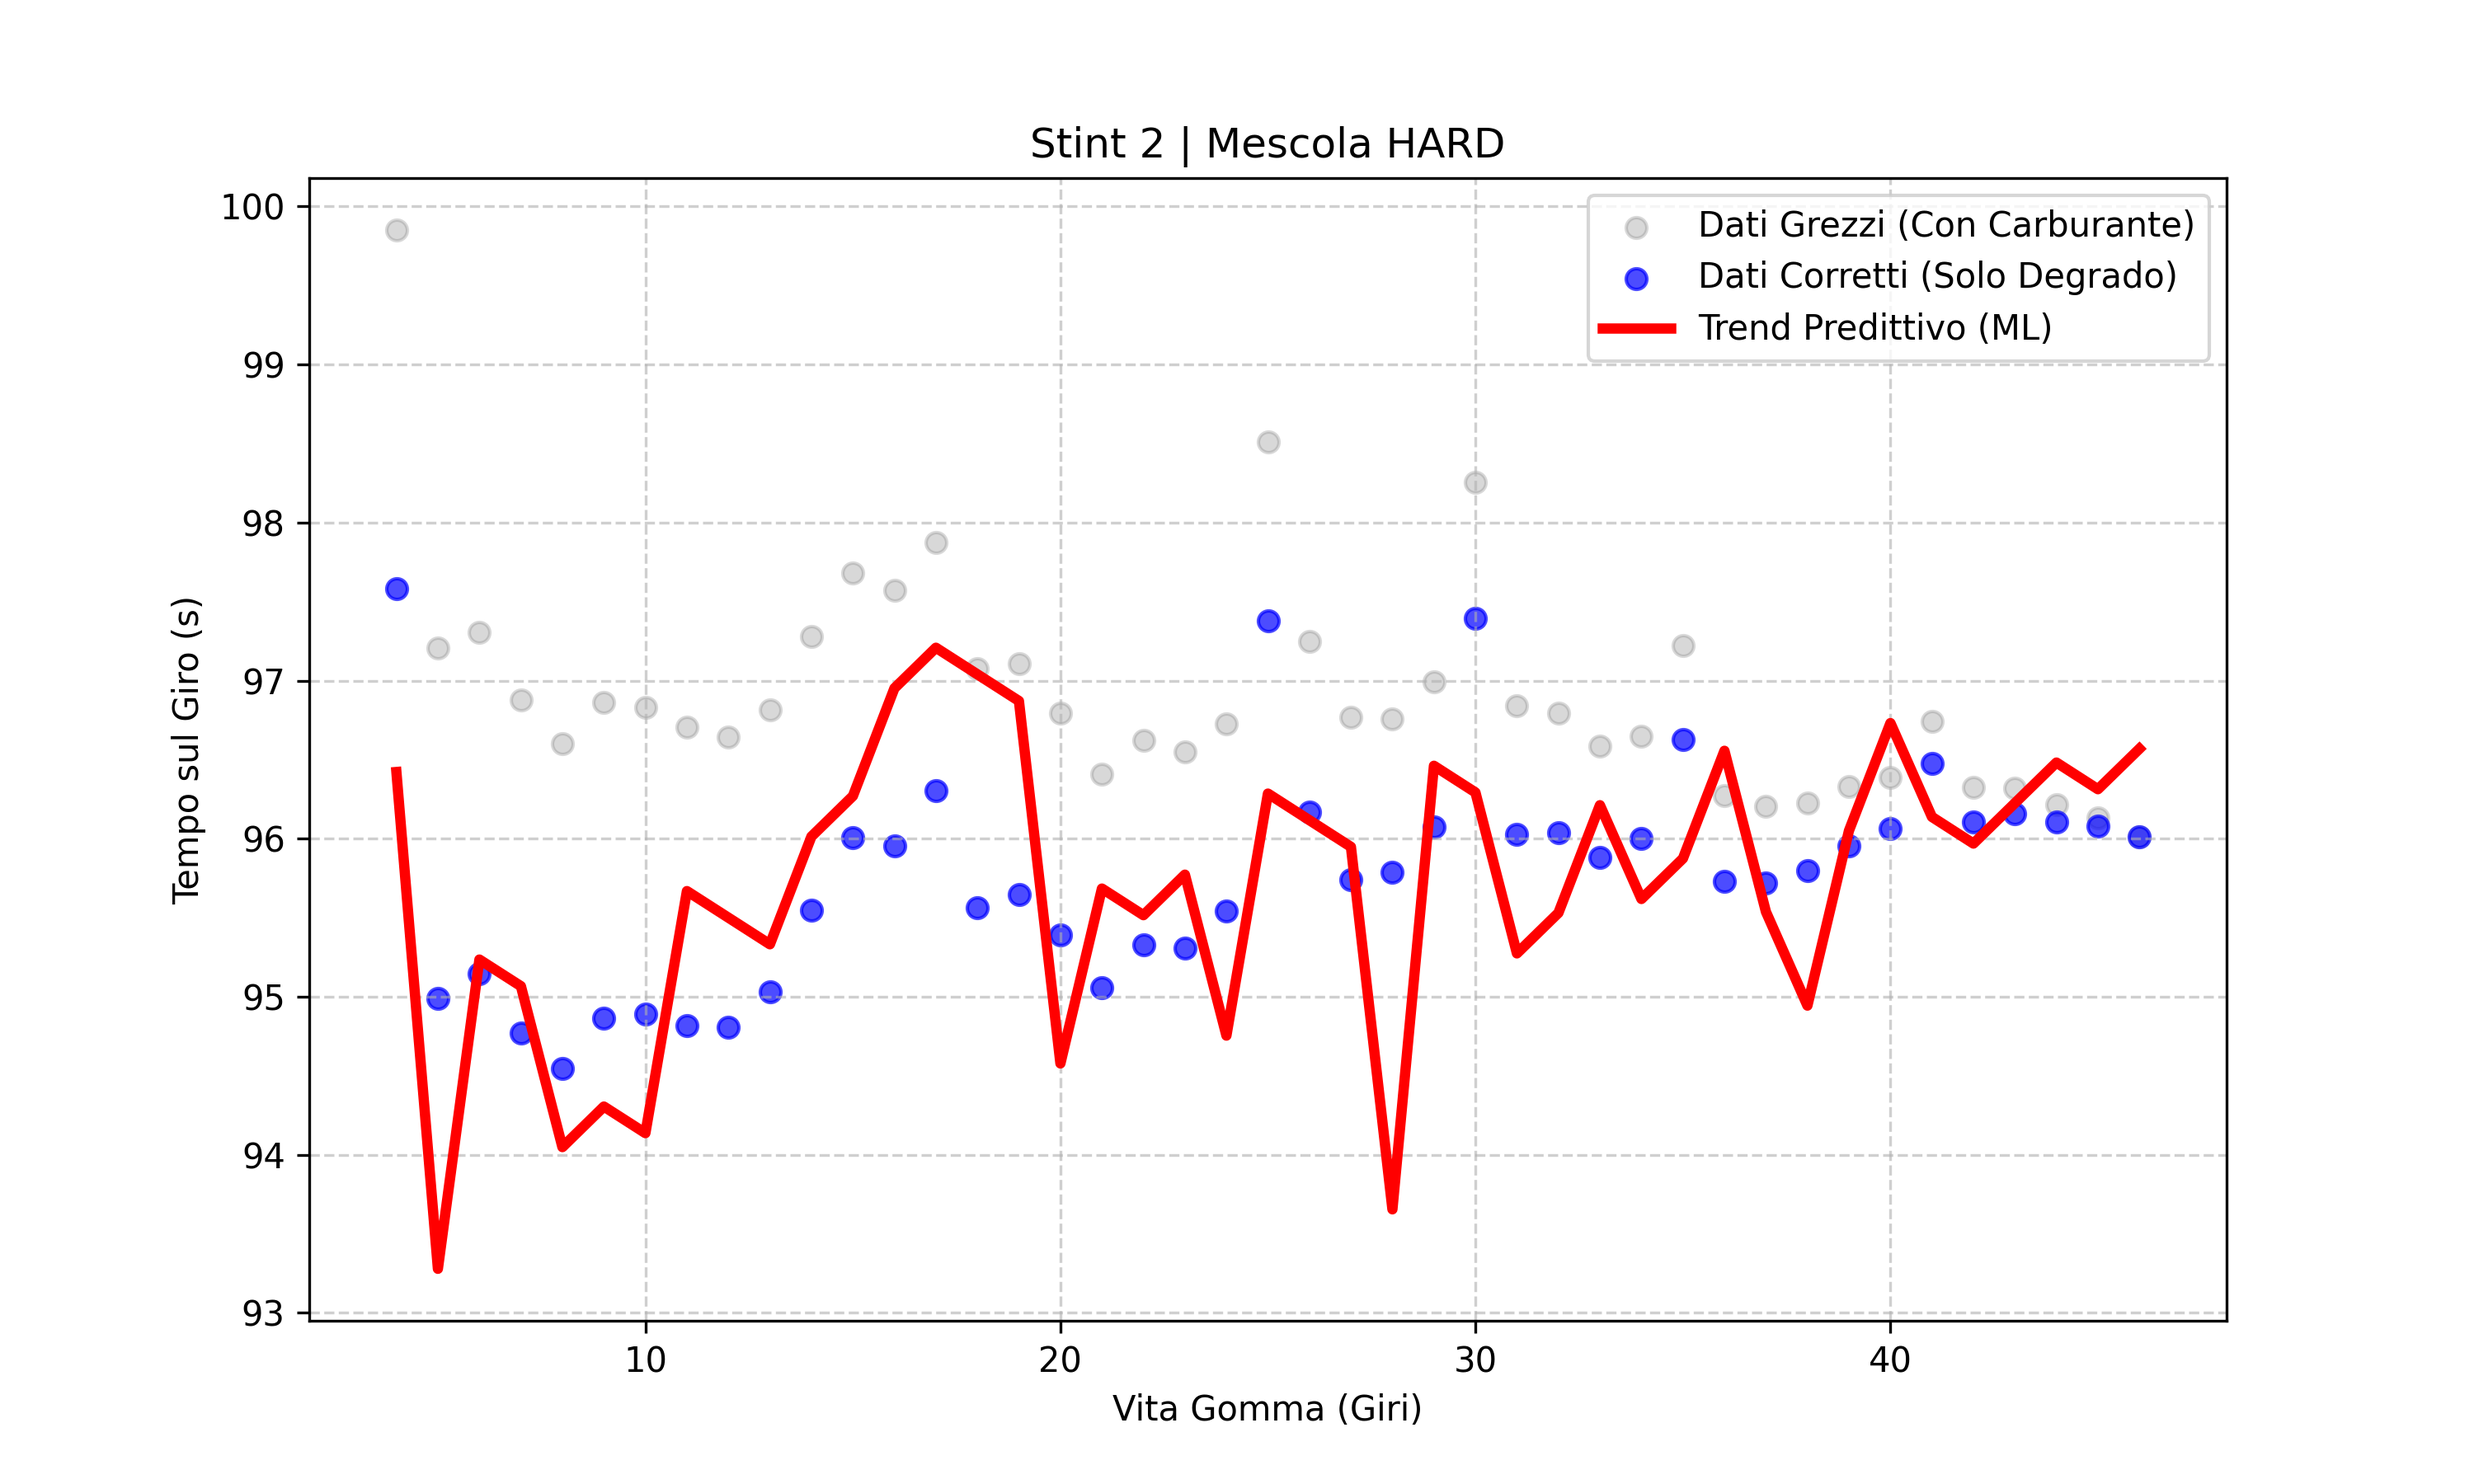
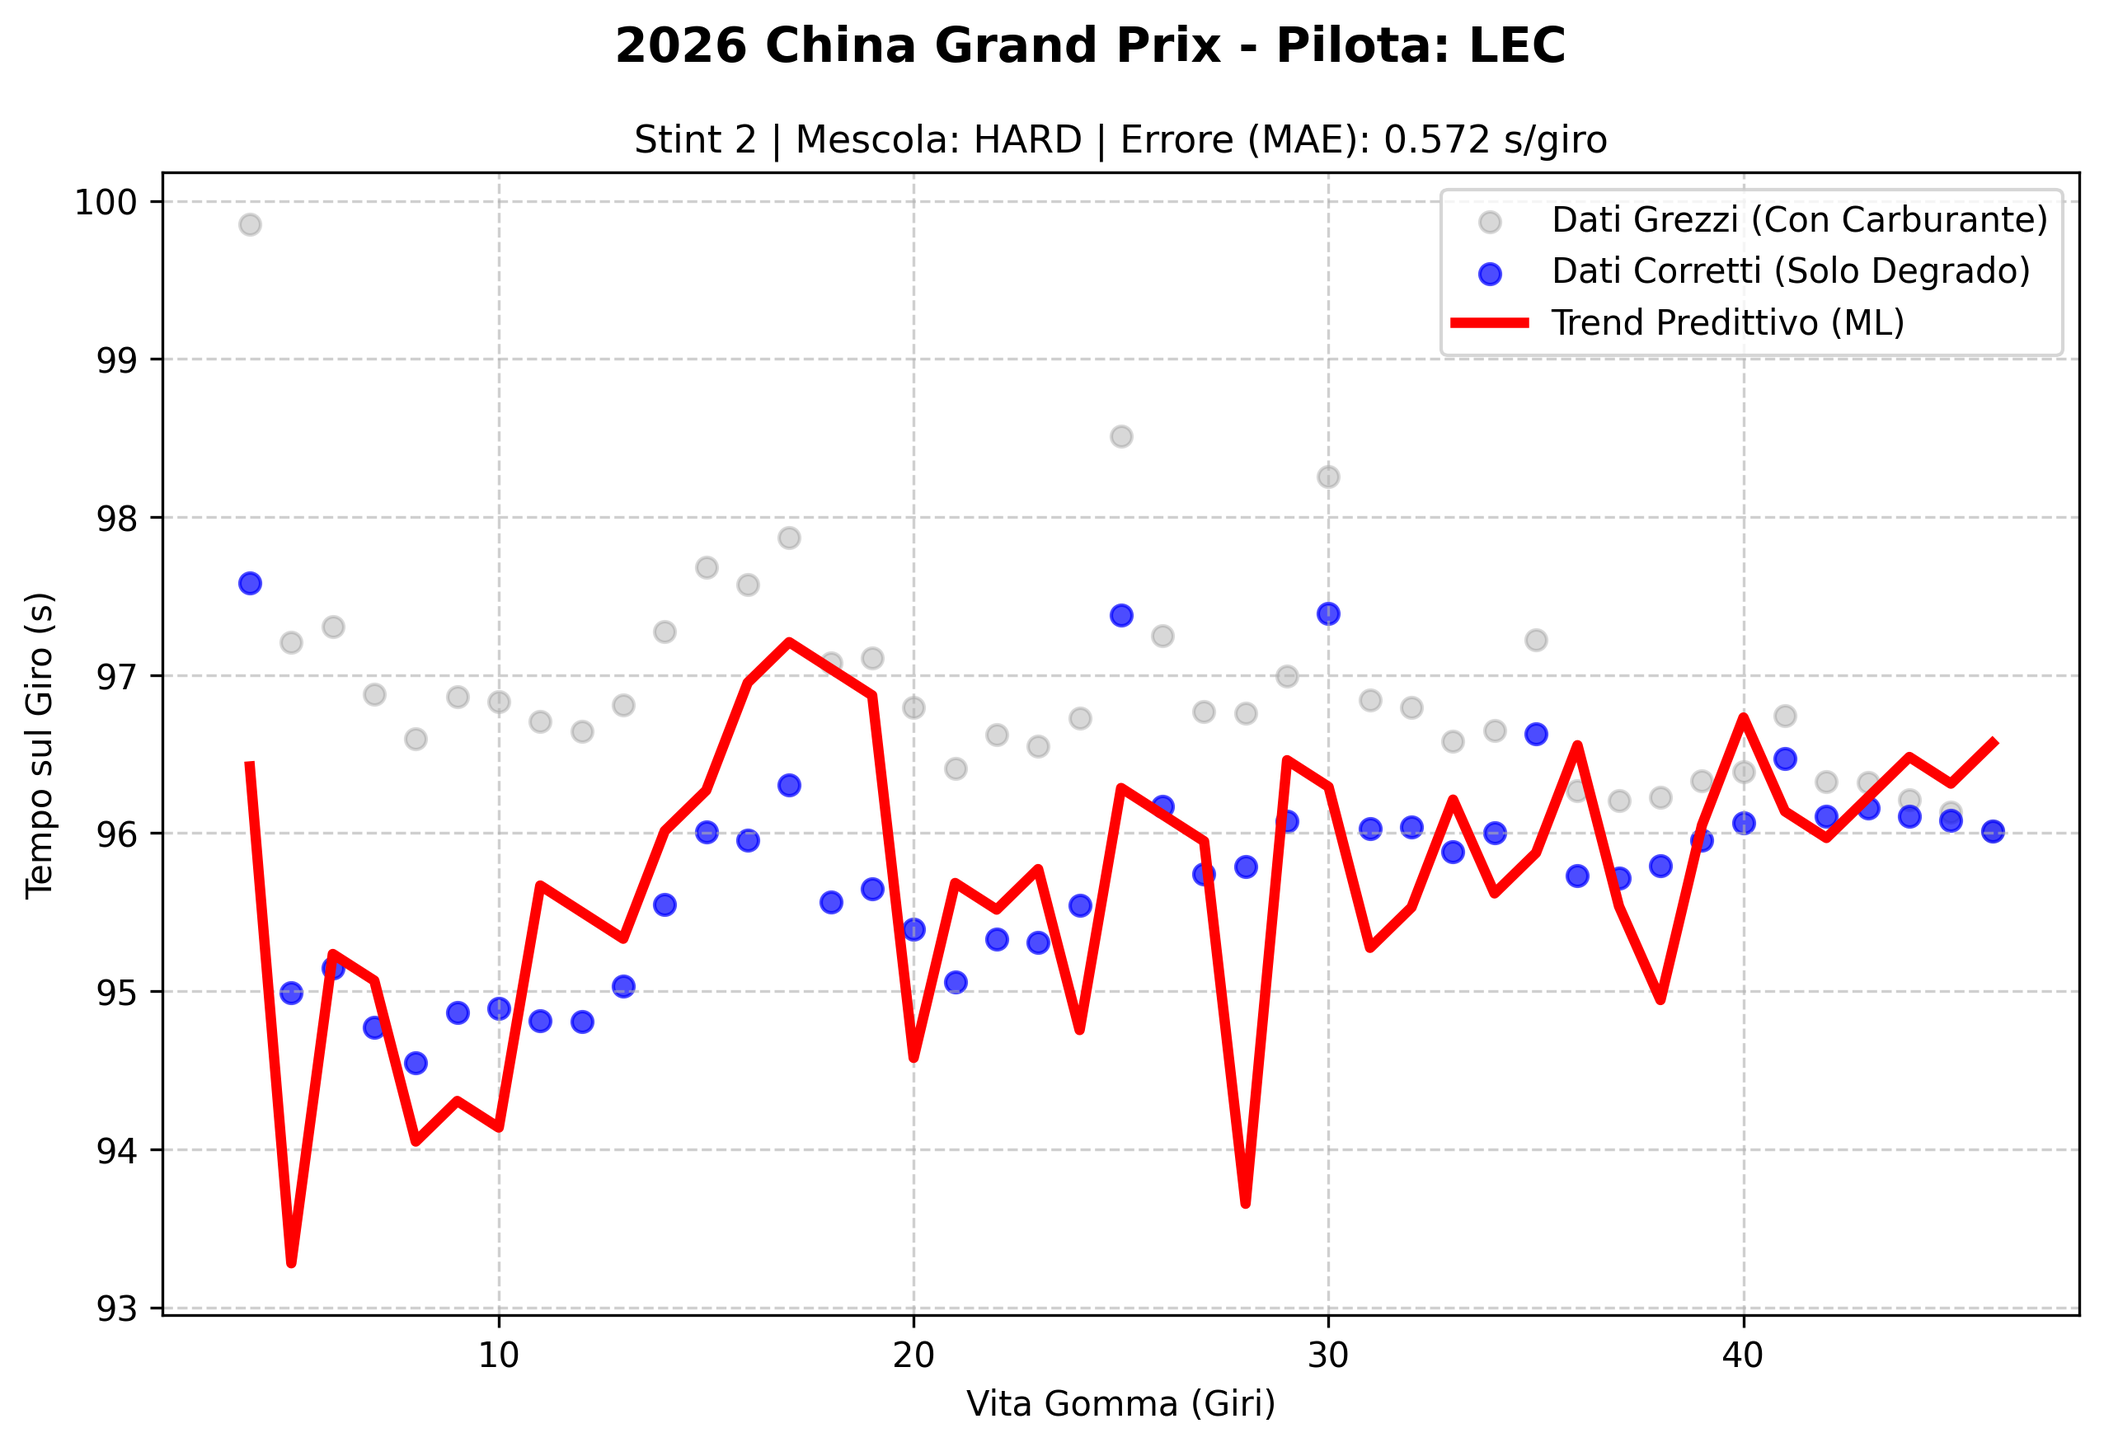
new plot notes

diff --git a/src/plotter.py b/src/plotter.py
@@ -1,10 +1,10 @@
 import matplotlib.pyplot as plt
 import os
 
-def save_plots(df, model, stint, compound, folder):
+def save_plots(df, model, stint, compound, mae, year, gp, driver, folder):
     """
     Genera e salva i grafici del degrado per visualizzare l'output del modello ML
-    sovrapposto ai dati reali della telemetria.
+    sovrapposto ai dati reali della telemetria, includendo contesto ed errore.
     """
 
     plt.figure(figsize=(10, 6))
@@ -32,25 +32,36 @@ def save_plots(df, model, stint, compound, folder):
 
     plt.xlabel("Vita Gomma (Giri)")
     plt.ylabel("Tempo sul Giro (s)")
-    plt.title(f"Stint {int(stint)} | Mescola {compound}")
+    
+    # Contestualizzazione forte: GP, Pilota e Anno nel titolo principale
+    plt.suptitle(f"{year} {gp} Grand Prix - Pilota: {driver}", fontsize=14, fontweight='bold')
+    # Dettagli tecnici nel sottotitolo
+    plt.title(f"Stint {int(stint)} | Mescola: {compound} | Errore (MAE): {mae:.3f} s/giro", fontsize=11)
+    
     plt.legend()
     plt.grid(True, linestyle='--', alpha=0.6)
 
-    # Salvataggio
+    # Salvataggio (uso bbox_inches='tight' per non tagliare il titolo grande)
     path = os.path.join(folder, f"Stint_{int(stint)}_{compound}.png")
-    plt.savefig(path, dpi=300)
+    plt.savefig(path, dpi=300, bbox_inches='tight')
     plt.close()
 
 
 def plot_summary_bar_chart(df_results, output_folder):
     """
-    Genera un grafico a barre che confronta il degrado per ogni singolo stint della gara in ordine cronologico.
+    Genera un grafico a barre che confronta il degrado per ogni singolo stint della gara,
+    includendo le informazioni di contesto e l'errore MAE sopra ogni barra.
     """
 
     if df_results.empty:
         return
 
     plt.figure(figsize=(10, 6))
+    
+    # Estrazione metadati dal dataframe per il titolo (basta prenderli dalla prima riga)
+    year = df_results["Year"].iloc[0]
+    gp = df_results["GP"].iloc[0]
+    driver = df_results["Driver"].iloc[0]
     
     # Mappatura completa dei colori classici Pirelli F1
     colors = {
@@ -74,24 +85,34 @@ def plot_summary_bar_chart(df_results, output_folder):
         edgecolor="black"
     )
     
-    plt.title("Evoluzione del Degrado Gomma per Stint\n(Isolato dall'Effetto Carburante)")
+    # Titolo contestualizzato
+    plt.suptitle(f"Analisi Degrado Gomme: {year} {gp} GP - Pilota: {driver}", fontsize=14, fontweight='bold')
+    plt.title("Evoluzione del Degrado per Stint (Isolato dall'Effetto Carburante)", fontsize=11)
     plt.xlabel("Fase di Gara")
     plt.ylabel("Degrado Medio (Secondi/Giro)")
     plt.grid(axis='y', linestyle='--', alpha=0.7)
 
-    # Aggiungo i testi con i valori esatti in cima ad ogni barra
-    for bar in bars:
+    # Aggiungo i testi con i valori esatti in cima ad ogni barra (Degrado + MAE)
+    for bar, (_, row) in zip(bars, df_results.iterrows()):
         yval = bar.get_height()
+        mae = row['MAE_Sec']
+        
+        # Formattazione del testo per avere su due righe degrado e MAE
+        testo = f"{yval:.3f}s\n(MAE: {mae:.2f}s)"
+        
         plt.text(
             bar.get_x() + bar.get_width() / 2, 
-            yval + 0.005, 
-            f"{yval:.3f}s", 
-            ha='center', va='bottom', fontweight='bold'
+            yval + 0.002, 
+            testo, 
+            ha='center', va='bottom', fontweight='bold', fontsize=9
         )
+
+    # Aumento il limite dell'asse Y del 20% per far spazio alle due righe di testo sulle barre
+    plt.ylim(0, df_results["Degradation"].max() * 1.2)
 
     # Sfondo grigio chiaro per far risaltare la barra bianca (HARD)
     plot_path = os.path.join(output_folder, "stint_comparison.png")
-    plt.savefig(plot_path, dpi=300, facecolor='#f0f0f0') 
+    plt.savefig(plot_path, dpi=300, facecolor='#f0f0f0', bbox_inches='tight') 
     plt.close()
     
     print(f"📈 Grafico comparativo salvato in: {plot_path}")

diff --git a/src/main.py b/src/main.py
@@ -49,7 +49,11 @@ def main():
             model, mae, deg_rate, fuel_penalty, df_pred = train_degradation_model(stint_df)
             
             # Salvataggio dei grafici
-            save_plots(df_pred, model, stint, compound, output_folder)
+            # Salvataggio dei grafici
+            save_plots(
+                df_pred, model, stint, compound, 
+                mae, args.year, args.gp, args.driver, output_folder
+            )
             
             # Raccolta dei risultati per l'analisi finale
             results = collect_result(
